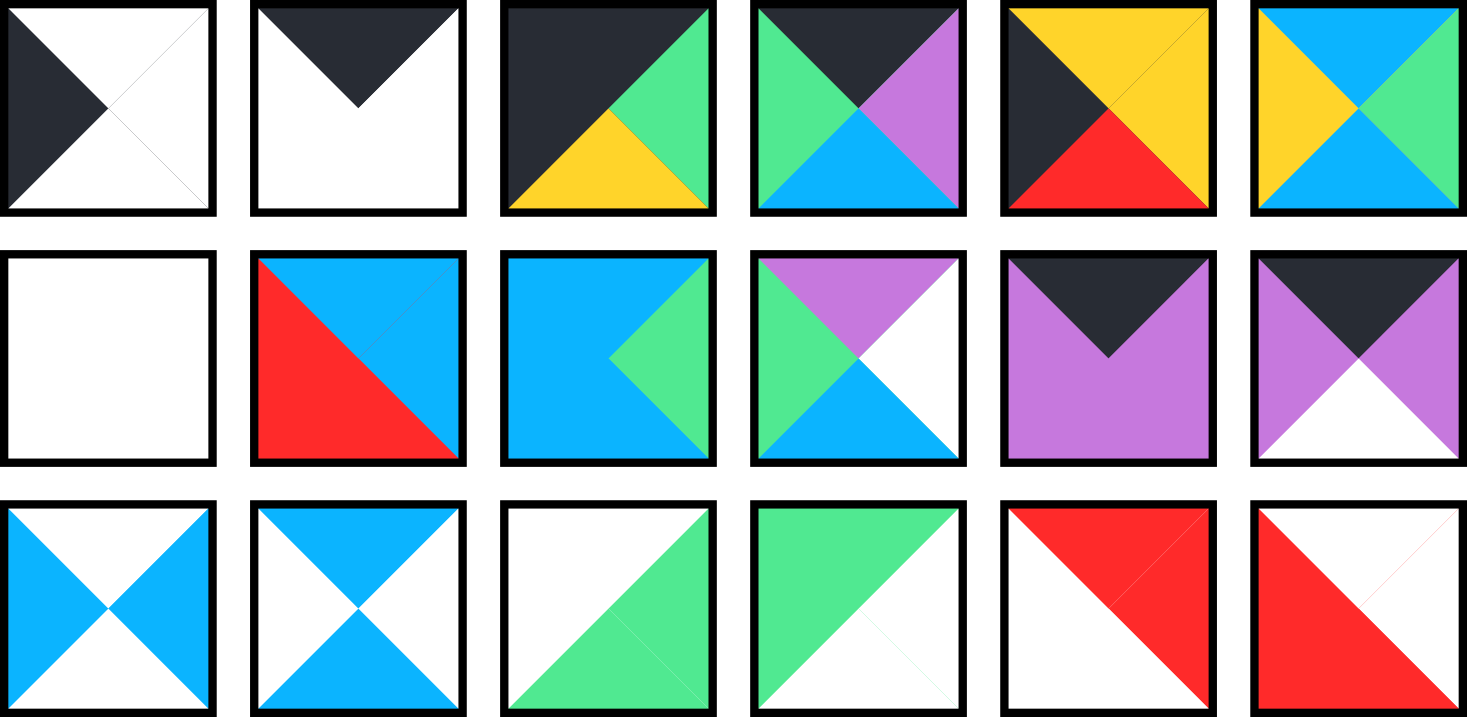
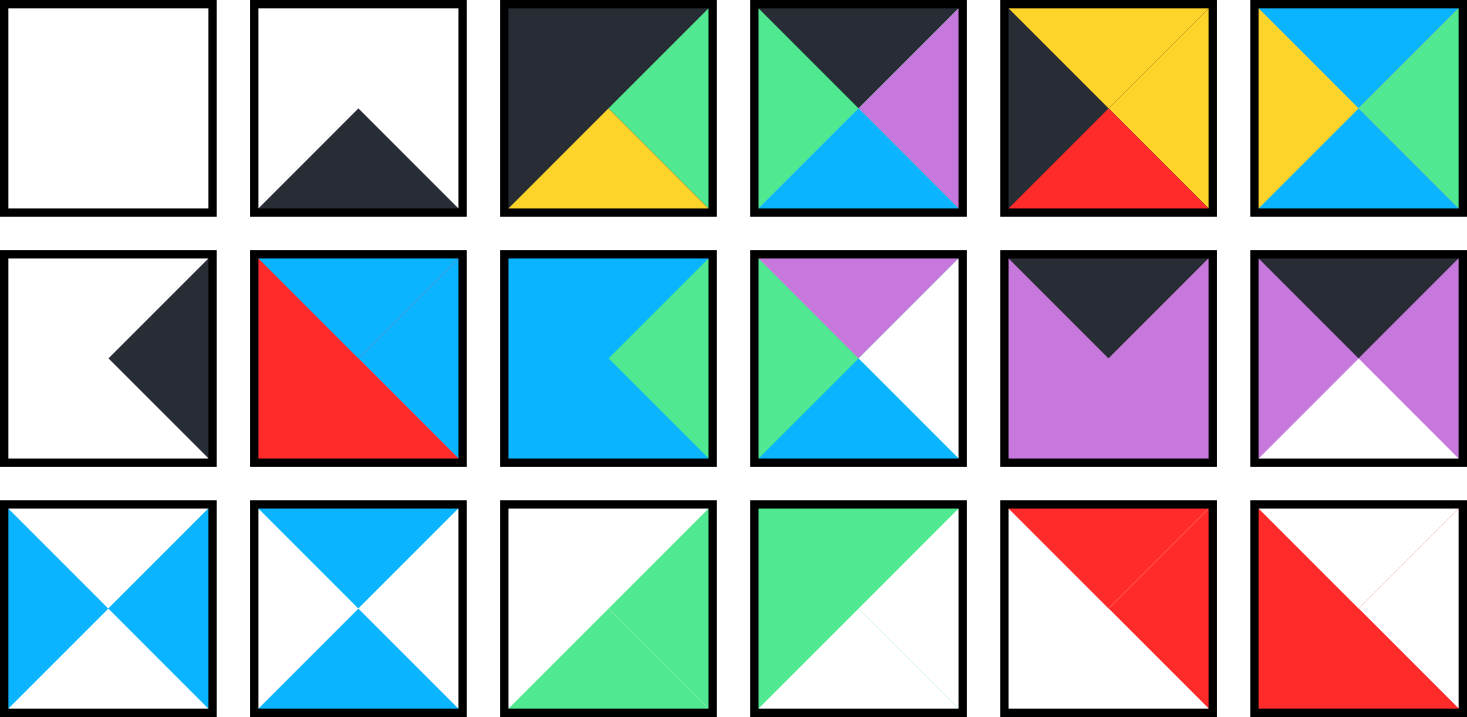
Tweak tiles and add an example

Changed region(s): [[0.184, 0.0, 0.3067, 0.3068], [0.0613, 0.3682, 0.1534, 0.6444], [0.0, 0.0, 0.092, 0.2762]]

diff --git a/entries/jj/tiles/README.md b/entries/jj/tiles/README.md
@@ -1,7 +1,9 @@
-# Partial Wang Tiling
+# Wang Tiling
 
 These are Wang tiles. For more information, see https://en.wikipedia.org/wiki/Wang_tile.
 
-Provided that the third tile (the one with the North and West edges being black, the East edge being green, and the South edge being yellow) is placed down first, there is only one arrangement of tiles such that the tiles tile the infinite quarter-plane. This arrangement forms the Fibonacci numbers. The eleventh tile (the one with the North edge being black and the West, East, and South edges being purple) will appear in Fibonacci-spaced intervals.
+There is only one arrangement of these tiles that tiles the infinite plane _aperiodically_. This arrangement forms the Fibonacci sequence.
 
-The algorithm for this is adapted from https://grahamshawcross.com/2012/10/12/wang-tiles-and-turing-machines/ (with some fixes and optimizations).
+Begin by placing down the third tile (the one with the North and West edges being black, the East edge being green, and the South edge being yellow), and continue by placing tiles such that the infinite plane can continue to be filled. The eleventh tile (the one with the North edge being black and the West, East, and South edges being purple) will appear in Fibonacci-spaced intervals.
+
+The algorithm for this is adapted from https://grahamshawcross.com/2012/10/12/wang-tiles-and-turing-machines/ (with some fixes and tweaks).
